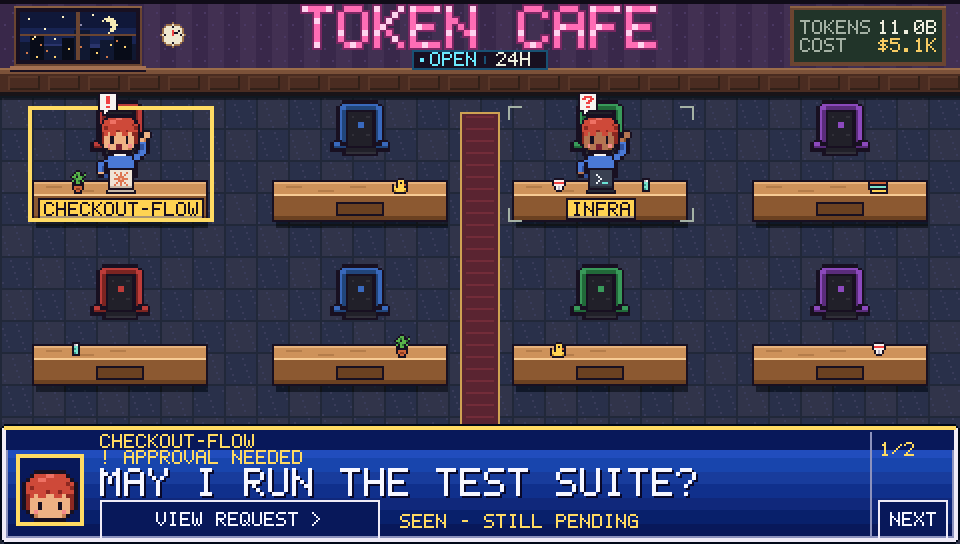
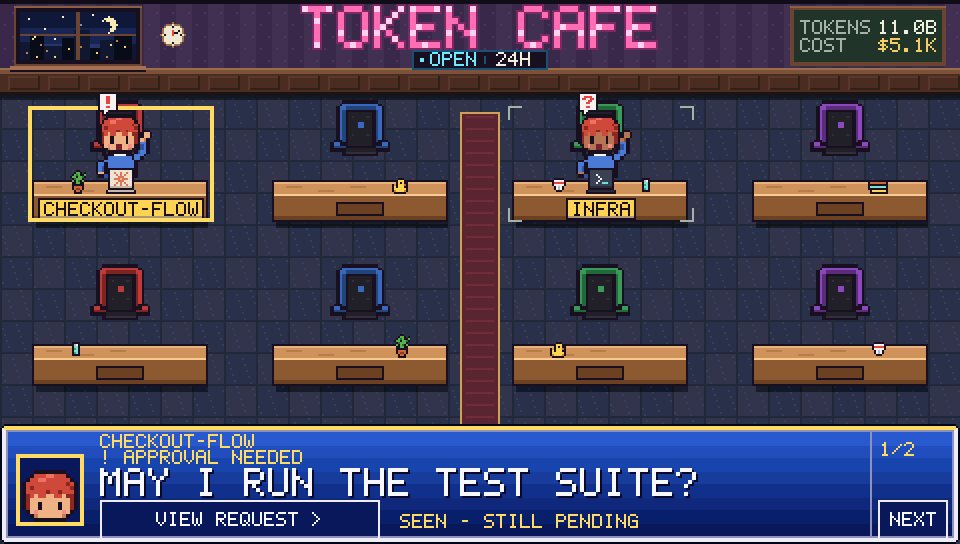
Make attention footer pulse clearly visible

Changed region(s): [[0.0, 0.7812, 1.0, 0.8438]]

diff --git a/crates/cafe-ui/src/scene.rs b/crates/cafe-ui/src/scene.rs
@@ -1525,6 +1525,11 @@ impl Scene {
     fn draw_message(&self, g: &mut Gfx, now: NaiveTime) {
         let t = self.t;
         let (x, y, w, h) = (0, a::WIN_Y, a::W as i32, a::H as i32 - a::WIN_Y);
+        // Pulse the full message surface: a thin edge is easy to miss on the LCD.
+        // Paint before text and controls so their foreground never flashes off.
+        if self.attention_bright() {
+            g.rect(x + 3, y + 3, w - 6, h - 6, 0x70451c);
+        }
         if let Some(id) = self.attention_id() {
             let session = self.sessions.iter().find(|s| s.id == id);
             let request = self.requests.iter().position(|r| r.session == id);
@@ -1543,7 +1548,6 @@ impl Scene {
                     "OPEN REQUEST TO READ THE QUESTION"
                 });
             // The main question gets a 2x font; status and controls remain compact.
-            g.rect(3, y + 3, w - 6, 10, if self.attention_bright() { 0x4056a8 } else { c::WIN1 });
             self.draw_patron_portrait(g, id, 8, y + 15);
             g.text(&ellipsize(name, 55), 50, y + 5, c::GOLD, 1, None);
             g.text(status, 50, y + 13, c::GOLD, 1, None);
@@ -1756,6 +1760,27 @@ mod tests {
         assert_eq!(scene.resolved_attention["a"].0, timestamp, "refresh cannot replay the resolved notification");
         scene.set_sessions(&[session("a", State::Wait)]);
         assert!(!scene.resolved_attention.contains_key("a"));
+    }
+
+    #[test]
+    fn attention_pulses_a_visible_surface_while_reading_another_patron() {
+        let mut scene = Scene::new();
+        scene.set_sessions(&[session("waiting", State::Wait), session("reading", State::Work)]);
+        scene.focus_patron("reading".into());
+        let now = NaiveTime::from_hms_opt(12, 0, 0).unwrap();
+        let mut bright = vec![0; a::W * a::H];
+        let mut dim = bright.clone();
+        scene.render(&mut bright, now);
+        scene.tick(600);
+        scene.render(&mut dim, now);
+        let footer = a::WIN_Y as usize * a::W;
+        let changed = bright[footer..].iter().zip(&dim[footer..]).filter(|(a, b)| a != b).count();
+        assert!(changed > 14_000, "attention must change most of the footer, got {changed}");
+        assert_eq!(scene.selected_id(), Some("reading"));
+        scene.tick(600);
+        scene.acknowledge_attention("waiting");
+        scene.render(&mut bright, now);
+        assert_eq!(&bright[footer..], &dim[footer..], "acknowledgement restores the steady footer");
     }
 
     #[test]

diff --git a/tools/test_attention_qemu.py b/tools/test_attention_qemu.py
@@ -78,9 +78,15 @@ def run(device, qmp, process):
     host.advance(600)
     dim = capture('04-new-request-dim')
     assert pixel(bright, 2, 213) != pixel(dim, 2, 213), 'footer accent did not pulse'
-    # Text stays readable and unchanged through the pulse.
-    for y in range(230, 237):
-        assert bright[(y * 480 + 50) * 3:(y * 480 + 180) * 3] == dim[(y * 480 + 50) * 3:(y * 480 + 180) * 3]
+    # A large surface must change, not just the old two-pixel accent.
+    changed = sum(pixel(bright, x, y) != pixel(dim, x, y)
+                  for y in range(212, 272) for x in range(480))
+    assert changed > 14000, f'footer pulse too small: {changed} pixels'
+    # The question's white glyphs stay in exactly the same positions in both phases.
+    white = bytes((247, 247, 255))  # TEXT after RGB565 conversion
+    for y in range(234, 248):
+        for x in range(50, 430):
+            assert (pixel(bright, x, y) == white) == (pixel(dim, x, y) == white)
     host.advance(600)
     host.present()
     phase2 = struct.unpack('<H', device.request(10, struct.pack('<I', (213 * 480 + 2) * 2))[:2])[0]

diff --git a/docs/qa/attention-qemu/README.md b/docs/qa/attention-qemu/README.md
@@ -1,11 +1,22 @@
 # Attention UI: QEMU verification
 
-Verified on 2026-10-15 with the rebuilt Xtensa firmware in Espressif QEMU 9.2.2.
+Attention scenario rerun on 2026-10-16 with the rebuilt Xtensa firmware in Espressif QEMU 9.2.2.
 All sessions, requests, keys, and actions are synthetic. No real command was approved or run.
 
-The latest simplification rerun verifies taller footer controls, removal of the single-waiter rail, a short acknowledgement hint, and approval controls appearing after the guard period. Protocol and transition results below are from the preceding verification run.
+The October 15 simplification rerun verified taller footer controls, removal of the single-waiter rail, a short acknowledgement hint, and approval controls appearing after the guard period. Protocol and transition results below are from the preceding verification run.
 
-## Results
+## October 16: visible footer pulse
+
+The original pulse only changed a narrow header strip and a two-pixel edge. The new bright phase paints the full footer interior warm amber before drawing its text and controls; the dim phase restores the blue background. QEMU measured 19,403 changed pixels out of the 28,800-pixel footer (67%), with unchanged white preview glyphs. All 15 attention checks passed, including 30 seconds of pulsing, acknowledgement, sleep/wake, and guarded review. A native regression also verifies the full footer pulses while another patron is selected. The LCD damage/staging test passed. All 141 native workspace tests passed.
+
+![Pulse phases](pulse-phases.png)
+
+[Looping phase comparison](footer-pulse.gif) repeats two QEMU captures for illustration; the actual alert stops at 30 seconds or acknowledgement.
+
+The production application was flashed on October 16 with esptool hash verification after a private full-flash backup. The installed pre-update image matched the previous build byte-for-byte. Panel orientation, color polarity, touch mapping, pairing, and NVS were preserved. The board boots and advertises with the new image. After a user-authorized macOS Bluetooth off/on cycle and companion restart, the desktop window reports `TokenCafe-6336 synced v2`. Serial telemetry confirms `CONNECTED` and continued rendering (`draw_ms=25`, `pack_ms=16`, `lcd_ms=7` in one sample). Physical pulse visibility still requires the user to observe a new attention request.
+
+## Earlier verification
+
 
 - `test_attention_qemu.py`: PASS, 15 lifecycle checks and 14 QMP framebuffer captures, including the polished UI and the full 30-second pulse window.
 - `test_protocol_v2_qemu.py`: PASS at transport capacities 182, 244, and 509; additional seat identity, animation, sleep/wake, reconnect, 64-session, malformed body, and replay checks passed.

diff --git a/README.md b/README.md
@@ -133,7 +133,7 @@ cargo run --example screenshots -- --monologues    # preview rotation in target/
 
 ### Attention alerts
 
-A newly waiting patron pulses the footer accent for 30 seconds, then keeps an amber
+A newly waiting patron pulses the full footer background for 30 seconds, then keeps an amber
 frame until the request is resolved. A solid amber frame highlights the active
 patron; other waiting patrons keep quiet corner markers and steady nameplates.
 The footer shows the patron, approval/question type, a larger request preview,
